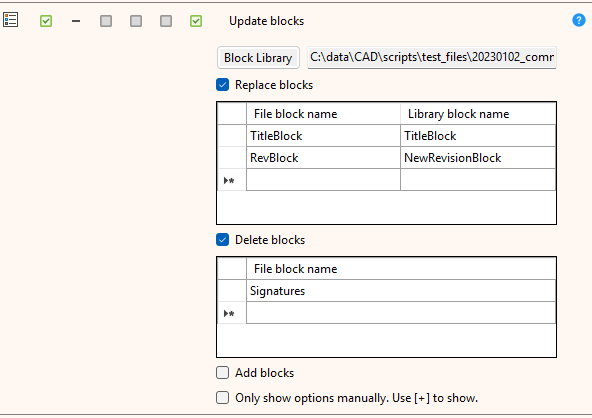
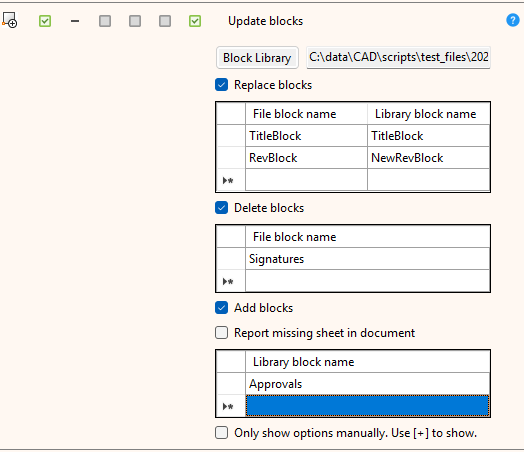
Documentation

diff --git a/HelpTopics.md b/HelpTopics.md
@@ -748,9 +748,9 @@ Adds, replaces and/or deletes blocks in a draft file.
 
 ![UpdateBlocks](My%20Project/media/task_update_blocks.png)
 
-For adding and replacing, a draft file containing the blocks is required.  Click the `Block Library` button to select it.
+For adding and replacing, a draft file containing the new blocks is required.  In most cases it will simply be your draft template.  Click the `Block Library` button to select it.
 
-The `Add Blocks` option adds the library block to the document.  It then checks for occcurrences of that block on each sheet of the library and adds it to the corresponding sheet in the document.  It is placed at the same location, with the same scale and rotation, as the original.  If the document does not have a corresponding sheet, enable `Report missing sheet` to have that condition reported in the log file.  
+The `Add Blocks` option adds the block to the document block library.  A new block does not automatically appear on drawings. The program checks each sheet of the library and places an occurrence of it on the corresponding sheet of the document.  It is placed at the same location, with the same scale and rotation, as the original.  If the document does not have a corresponding sheet, enable `Report missing sheet` to have it reported in the log file.  
 
 </details>
 

diff --git a/README.md b/README.md
@@ -748,9 +748,9 @@ Adds, replaces and/or deletes blocks in a draft file.
 
 ![UpdateBlocks](My%20Project/media/task_update_blocks.png)
 
-For adding and replacing, a draft file containing the blocks is required.  Click the `Block Library` button to select it.
+For adding and replacing, a draft file containing the new blocks is required.  In most cases it will simply be your draft template.  Click the `Block Library` button to select it.
 
-The `Add Blocks` option adds the library block to the document.  It then checks for occcurrences of that block on each sheet of the library and adds it to the corresponding sheet in the document.  It is placed at the same location, with the same scale and rotation, as the original.  If the document does not have a corresponding sheet, enable `Report missing sheet` to have that condition reported in the log file.  
+The `Add Blocks` option adds the block to the document block library.  A new block does not automatically appear on drawings. The program checks each sheet of the library and places an occurrence of it on the corresponding sheet of the document.  It is placed at the same location, with the same scale and rotation, as the original.  If the document does not have a corresponding sheet, enable `Report missing sheet` to have it reported in the log file.  
 
 </details>
 
